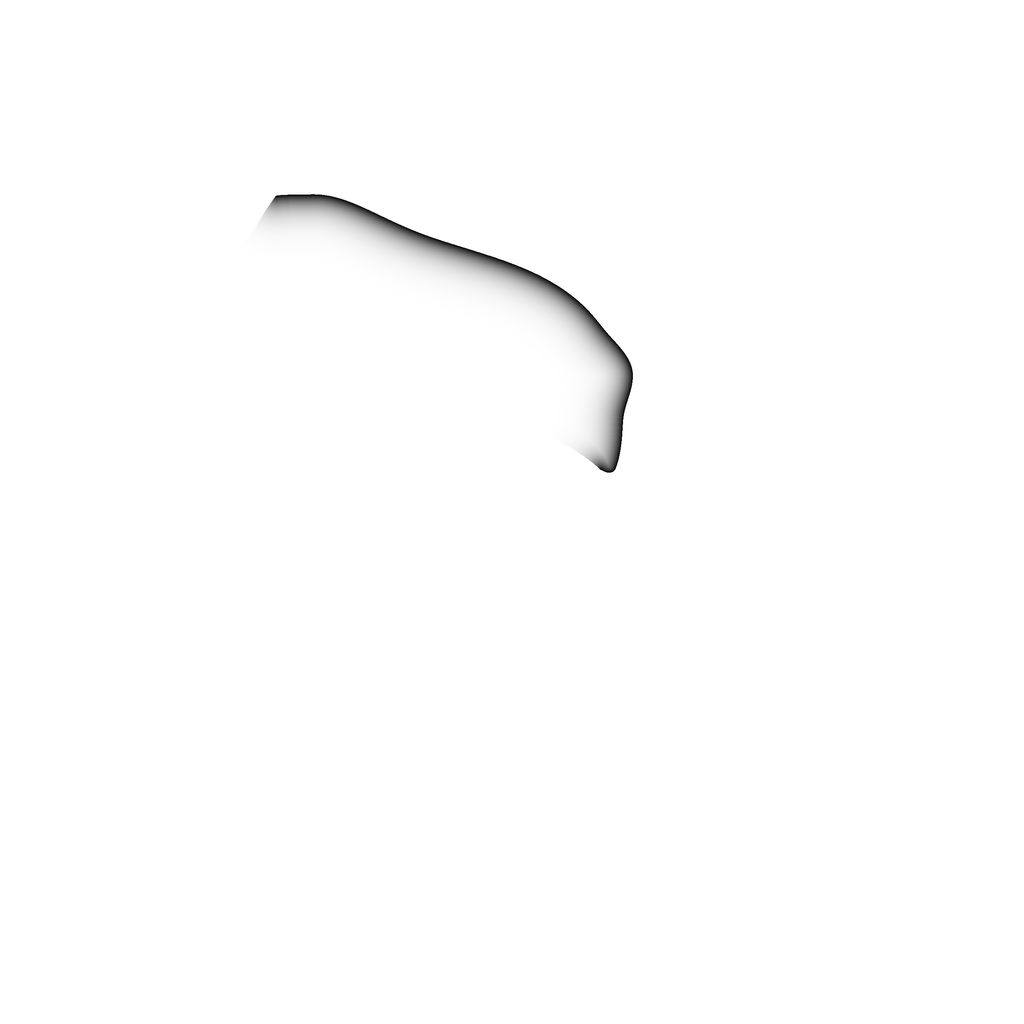
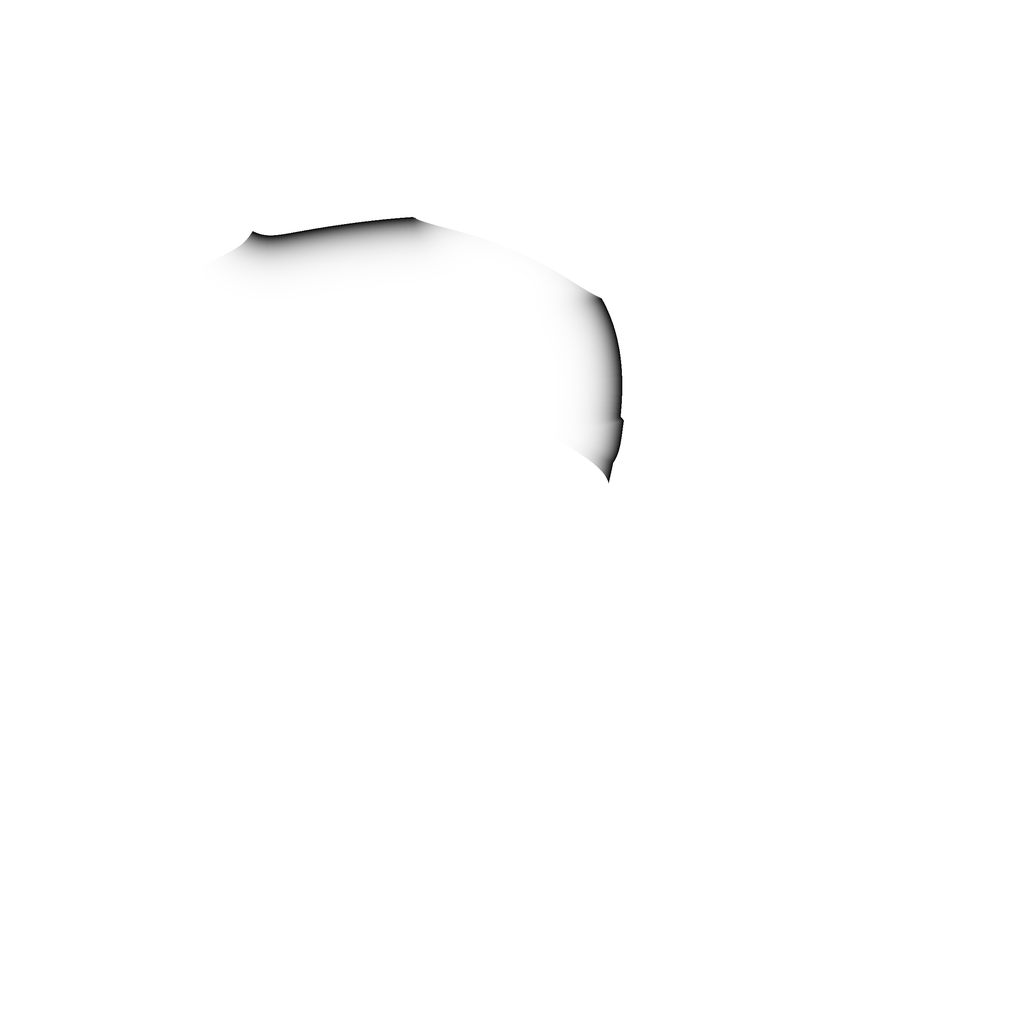
Emblem: exact ring borders, gaps that stay still, calmer roll
Borders between rings now follow the owner's sketch: each starts at a
notch in the outline, runs through the gap between the two rings and
then follows the front ring's own strands to a corner of the hole. Each
side of the hole belongs to one ring. The four gaps between rings belong
to no ring and never move, and no groove is cut.

The roll is calmer: the groove sets are spaced evenly round each wheel,
all four rings roll together with a slight ripple over 2.8s, and the
grooves get a little motion blur.

Changed region(s): [[0.2188, 0.1875, 0.625, 0.4062], [0.5625, 0.4375, 0.625, 0.4688]]

diff --git a/site/public/assets/emblem-spin.js b/site/public/assets/emblem-spin.js
@@ -1,21 +1,22 @@
 // The Endive emblem's spin.
 //
 // The emblem is four interlaced rings. Each ring is drawn as the tread of a wheel seen at an angle: its two pinched
-// ends are where the tread turns away round the back of the wheel. On arrival each ring, one after another, rolls
-// once on its axle like a tyre: the outline stays where it is while its grooves travel along the ring, following their
-// own curves, and pass under the next ring at its edge. The rings are lit as solid objects while they turn. When every
-// ring has come full circle the emblem is exactly the logo again.
+// ends are where the tread turns away round the back of the wheel. On arrival all four rings roll once on their
+// axles like tyres, starting a moment apart: each outline stays where it is while its grooves travel along the ring,
+// following their own curves, and pass under the next ring at its edge. The rings are lit as solid objects while they
+// turn, with a little motion blur. When every ring has come full circle the emblem is exactly the logo again.
 //
 // The grooves are the logo's own, sampled straight from the artwork into each wheel's coordinates (angle round the
-// wheel, position across the tread) and repeated round the part of the wheel the logo never shows
-// (emblem-rings.png). The borders between rings run along the front ring's own strands (emblem-windows.png). A WebGL
-// canvas laid over the emblem draws the turn; at rest it matches the SVG, and when the turn ends the canvas goes and
-// the plain SVG is left. No WebGL, reduced motion or a failed load: the emblem simply stays still.
+// wheel, position across the tread) and repeated evenly round the part of the wheel the logo never shows
+// (emblem-rings.png). Each border between rings starts at a notch in the outline, runs through the gap between the two
+// rings and follows the front ring's strands to a corner of the hole (emblem-windows.png); the four gaps belong to no
+// ring and never move. A WebGL canvas laid over the emblem draws the turn; at rest it matches the SVG, and when the
+// turn ends the canvas goes and the plain SVG is left. No WebGL, reduced motion or a failed load: the emblem stays still.
 (function () {
   var reduce = window.matchMedia && window.matchMedia('(prefers-reduced-motion: reduce)');
   var emblems = [].slice.call(document.querySelectorAll('svg.emblem.spin'));
   if (!emblems.length) return;
-  var DELAY = [0, 500, 1000, 1500], DUR = 1900, LEAD = 500, FADE = 200;
+  var DELAY = [0, 120, 240, 360], DUR = 2800, LEAD = 500, FADE = 200;
   var VIEW = 1200;          // half-size of the canvas in emblem units: the same box as the SVG
   var BASE = '/assets/';
 
@@ -40,7 +41,7 @@
     'varying vec2 vP;',
     'uniform sampler2D uRings, uWin, uTint, uRim, uShade;',
     'uniform vec2 uM[4], uE[4], uN[4], uLam[4];',
-    'uniform float uL[4], uTh[4], uAct;',
+    'uniform float uL[4], uTh[4], uDTh[4], uAct;',
     'uniform float uExt;',
     'uniform vec3 uColor;',
     'const float TAU = 6.2831853, PI = 3.1415927;',
@@ -57,7 +58,8 @@
     '}',
     // ring k at point q, rolled by th: returns (ink, light). The strand through q is the arc with sagitta lam; along
     // it, t is the angle round the wheel (phi = asin(2t - 1)); rolling moves the grooves along their arcs
-    'vec2 ring(vec2 q, vec2 M, vec2 E, vec2 N, float L, vec2 lr, float th, vec4 ch) {',
+    // dth: how far the wheel turned during this frame; the grooves are averaged over it (motion blur)
+    'vec2 ring(vec2 q, vec2 M, vec2 E, vec2 N, float L, vec2 lr, float th, float dth, vec4 ch) {',
     '  vec2 d = q - M; float a = dot(d, E); float b = dot(d, N);',
     '  if (abs(b) < 0.001) b = 0.001;',
     '  float kk = (a * a + b * b - L * L) / (2.0 * b); float R = sqrt(L * L + kk * kk);',
@@ -66,8 +68,12 @@
     '  if (t < 0.0 || t > 1.0) return vec2(0.0, 0.0);',
     '  float phi = asin(clamp(2.0 * t - 1.0, -1.0, 1.0));',
     '  float v = (lam - lr.x) / (lr.y - lr.x);',
-    '  float x = fract((phi - th + PI) / TAU);',
-    '  float ink = dot(texture2D(uRings, vec2(x, v)), ch);',
+    '  float ink = 0.0;',
+    '  for (int i = 0; i < 8; i++) {',
+    '    float x = fract((phi - (th - dth * float(i) / 7.0) + PI) / TAU);',
+    '    ink += dot(texture2D(uRings, vec2(x, v)), ch);',
+    '  }',
+    '  ink /= 8.0;',
     // lighting: the tread of a wheel tilted by GAM, curved across its width
     '  vec3 e3 = vec3(E, 0.0), b3 = vec3(-N, 0.0), z3 = vec3(0.0, 0.0, 1.0);',
     '  vec3 dm = sin(GAM) * z3 + cos(GAM) * b3, ax = cos(GAM) * z3 - sin(GAM) * b3;',
@@ -86,7 +92,7 @@
     '    vec4 ch = chan(k); float w = dot(win, ch); float wt = dot(tw, ch);',
     '    if (w < 0.002 && wt < 0.002) continue;',
     '    float p = max(sin(0.5 * clamp(uTh[k] / TAU, 0.0, 1.0) * TAU), 0.0);',
-    '    vec2 r = ring(vP, uM[k], uE[k], uN[k], uL[k], uLam[k], uTh[k], ch);',
+    '    vec2 r = ring(vP, uM[k], uE[k], uN[k], uL[k], uLam[k], uTh[k], uDTh[k], ch);',
     '    float spin = pow(p, 0.6);',
     '    float tone = (1.0 + spin * (-0.45 + 0.65 * r.y)) * (1.0 - 0.32 * pow(uAct, 0.6) * dot(shd, ch));',
     '    vec3 cc = clamp(uColor * tone + spin * 0.16 * pow(r.y, 14.0), 0.0, 1.0);',
@@ -151,12 +157,12 @@
     gl.uniform1f(U('uView'), VIEW);
     gl.uniform3fv(U('uColor'), rgb(getComputedStyle(svg).fill));
     gl.viewport(0, 0, cv.width, cv.height);
-    var uTh = U('uTh'), uAct = U('uAct');
+    var uTh = U('uTh'), uDTh = U('uDTh'), uAct = U('uAct');
     host.appendChild(cv);
     return {
       canvas: cv,
-      draw: function (th) {
-        gl.uniform1fv(uTh, th);
+      draw: function (th, dth) {
+        gl.uniform1fv(uTh, th); gl.uniform1fv(uDTh, dth || [0, 0, 0, 0]);
         var act = 0; for (var i = 0; i < 4; i++) act = Math.max(act, Math.sin(th[i] / 2));
         gl.uniform1f(uAct, act);
         gl.clearColor(0, 0, 0, 0); gl.clear(gl.COLOR_BUFFER_BIT); gl.drawArrays(gl.TRIANGLE_STRIP, 0, 4);
@@ -181,18 +187,21 @@
       var layer;
       try { layer = makeLayer(svg, A); } catch (e) { return; }
       svg._layer = layer;
-      var th = [0, 0, 0, 0];
+      var th = [0, 0, 0, 0], dth = [0, 0, 0, 0], last = null;
       layer.draw(th);
       svg.style.visibility = 'hidden';
       var t0 = asked + lead, end = DELAY[3] + DUR;
       function frame(now) {
         if (svg._run !== run) return;
         var el = now - t0;
+        var step = last === null ? 16.7 : Math.min(50, Math.max(0, now - last)); last = now;
         for (var k = 0; k < 4; k++) {
           var u = Math.min(1, Math.max(0, (el - DELAY[k]) / DUR));
+          var u0 = Math.min(1, Math.max(0, (el - step * 0.7 - DELAY[k]) / DUR));
           th[k] = u >= 1 ? 0 : 2 * Math.PI * ease(u);
+          dth[k] = u >= 1 ? 0 : 2 * Math.PI * (ease(u) - ease(u0));
         }
-        layer.draw(th);
+        layer.draw(th, dth);
         if (el < end) { requestAnimationFrame(frame); return; }
         // hand back to the plain SVG
         svg.style.visibility = '';
